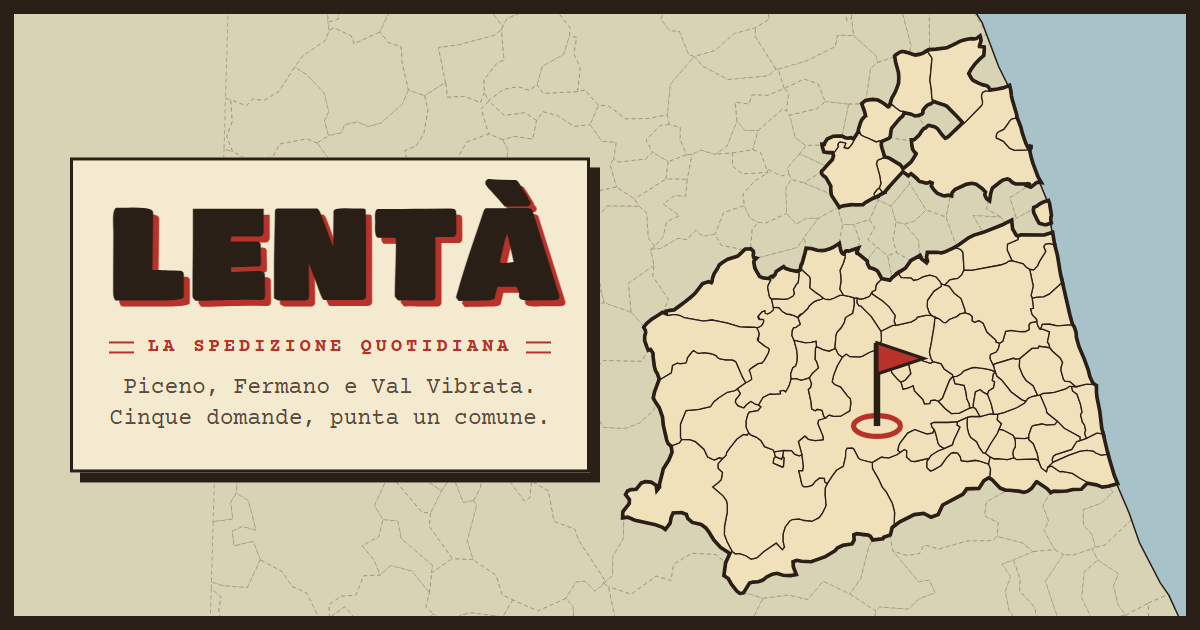
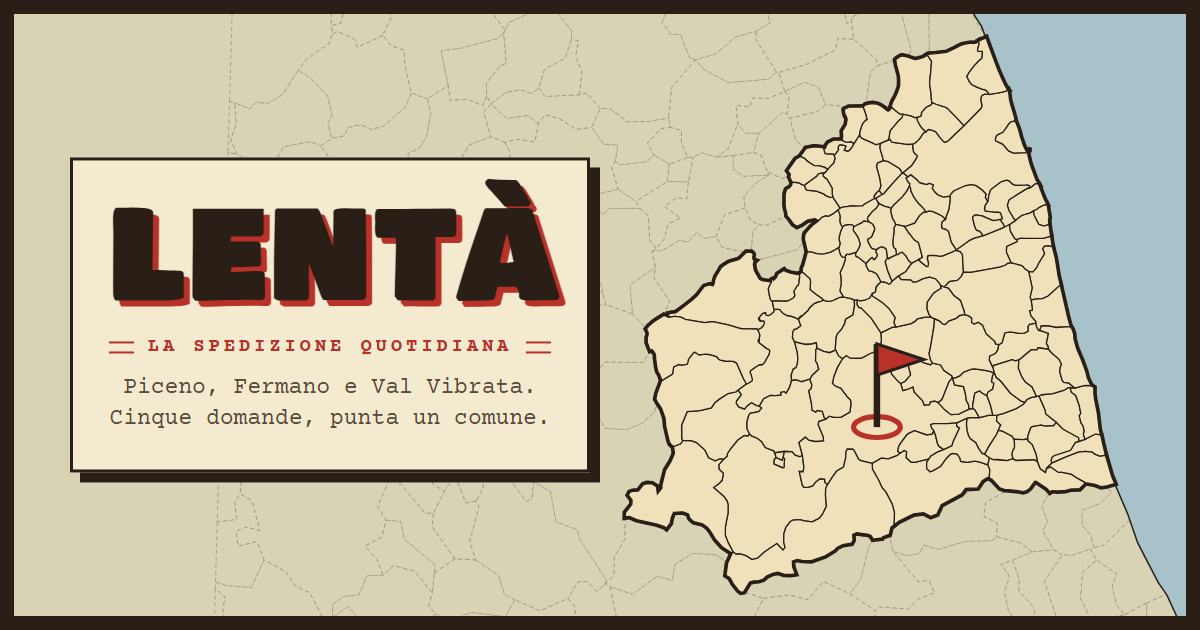
Mappa: tutti i 40 comuni della provincia di Fermo
- strumenti/aggiungi-comuni.mjs aggiunge i 26 comuni FM mancanti;
  dati/comuni-extra.js rigenerato (86 comuni: 33 AP, 40 FM, 13 TE).
  I 14 comuni FM già presenti restano identici.
- Testo "Come si gioca", anteprima.png e CLAUDE.md aggiornati.

diff --git a/dati/comuni-extra.js b/dati/comuni-extra.js
@@ -12,5 +12,31 @@ MAP.ap.push({"id":"109006","nome":"Fermo","d":"M814.4,480.3L813.3,480.8L811.9,47
 {"id":"109036","nome":"Santa Vittoria in Matenano","d":"M720.5,574.8L720,573.6L720.3,570.4L720.7,568.7L720.8,568.3L720.9,568.1L721,568L721.2,567.7L721.5,567.5L721.8,567.3L725.2,554.8L725.8,552.6L726.8,548.4L731.9,548.7L739.5,551L746.2,551.4L749.1,551.1L756.2,549.1L760,547.3L761.5,546.5L766.8,543.1L767.1,544.7L767.9,548.5L768.6,551L769.8,553.7L771.3,555.1L773.2,555.8L775.1,555.6L775.3,558.1L772.7,566.2L768.6,575.4L769.5,580.3L769.9,589.6L768.8,595.7L768.3,598.8L771.3,603.7L772.6,606.3L768.2,606.8L761.9,609.7L761.8,609.8L761.7,609.9L761.6,609.9L760.7,610.3L759,611L757.5,611.4L754.8,612L750.6,611.9L750.2,611.7L747.2,610.3L743.6,607.2L738.4,603.6L731.9,598.6L730.2,597.1L730.7,588.6L730.8,588.4L730.8,588L730.6,585.4L730,583.2L721.4,575.4L720.5,574.8Z","bb":[720,543.1,775.3,612],"pin":[749.2,577]},
 {"id":"109039","nome":"Smerillo","d":"M681,587.3L680.6,585.9L680.7,585.4L680.9,585L682.2,584L682.6,583.9L682.9,584.1L683.4,584.8L683.6,585.2L687.4,581.3L688.9,577.3L696.9,572.2L697.6,572.9L698,573.2L698.4,573.6L698.9,573.9L699.3,574.1L699.7,574.3L700.4,574.5L704.3,575.7L704.9,575.9L706.7,576.3L714,577.7L716.8,577L716.9,580.8L716,588.3L715.4,591.2L715.2,591.5L715,591.6L714.3,592L713.7,592.3L709.6,599.5L710.6,602.9L710.9,604.6L709.5,607L709.1,607.5L708.8,607.8L703.2,611L702.9,611.2L698.6,611.9L694.9,611.8L687.2,611.3L681.9,611.6L681.6,611.5L681.4,611.4L680.5,610.4L680,609.8L679.3,608.7L679.2,608.4L678.6,605.6L678.4,604.9L677,597.1L677,595.7L678.1,592.7L681,587.3Z","bb":[677,572.2,716.9,611.9],"pin":[696.7,593.4]},
 {"id":"109014","nome":"Montefalcone Appennino","d":"M716.8,577L720.5,574.8L721.4,575.4L730,583.2L730.6,585.4L730.8,588L730.8,588.4L730.7,588.6L730.2,597.1L731.9,598.6L738.4,603.6L743.6,607.2L747.2,610.3L744.9,611.8L739.6,613L735.4,614.9L730.5,619.3L729.3,620.5L727.7,623.4L720.5,630.2L720.3,630.1L720.2,630.1L720,630.1L719.7,630.2L719.3,630.3L719,630.5L718.3,630.9L718,631.1L717.4,631.6L717.1,631.9L716,633.3L715.9,633.4L715.8,633.7L715.4,635L714.2,634.2L709.7,632.1L708.7,631.8L708.4,631.7L706.6,631.2L705.8,631L700.6,630.1L695.6,627.3L691.6,622.6L688.3,622L685.1,622.4L683.9,621.4L681.9,611.6L687.2,611.3L694.9,611.8L698.6,611.9L702.9,611.2L703.2,611L708.8,607.8L709.1,607.5L709.5,607L710.9,604.6L710.6,602.9L709.6,599.5L713.7,592.3L714.3,592L715,591.6L715.2,591.5L715.4,591.2L716,588.3L716.9,580.8L716.8,577Z","bb":[681.9,574.8,747.2,635],"pin":[720.1,611.9]},
-{"id":"109015","nome":"Montefortino","d":"M521.3,647.4L524,643.8L530.4,638.3L536,634.7L543.5,630L549.9,632.5L555.6,631.4L556.3,631.3L557.2,631.3L560.7,631.5L561.3,631.5L561.7,631.6L564.5,632.1L565.1,632.3L565.8,632.6L566.4,632.8L567.4,633.2L568,633.5L569.9,634.5L570.7,634.9L595.3,639.3L606.2,638L615,639.8L625.7,642L641.4,646.7L645.8,647.1L652.9,647.2L661.4,647.3L662.9,647.8L665,651.9L665.9,654.9L665.5,657.6L664.9,660.5L664.6,660.7L664.4,661L664.2,661.3L664,661.6L663.9,661.8L663.8,662.1L663.8,662.5L663.8,662.8L664,663.5L664.9,664.8L665,665L665.8,665.6L674.2,672L677.7,673.6L678.6,675.1L678.3,677.4L677.9,679.4L677.8,679.7L672.2,689.6L669.3,692.9L667.9,692.8L665.9,693L665,693.3L664.6,693.4L658.3,697.5L654.6,700.2L653.4,702.2L654.2,703.8L655,706.1L655.8,708.9L656.5,712.4L656.5,712.7L656.5,712.8L656.4,713L655.4,714.2L651.2,716.7L649.3,717.3L648.2,716.4L645.2,710.9L642.7,705.3L639.3,697.5L636.7,691.3L636.6,691.1L636.3,690.9L634.7,689.8L633.3,689.1L631.7,688.6L627,688.5L624,688.4L623.8,688.5L623.6,688.6L623.4,688.6L621.3,688.2L615.6,687.1L613,685.7L612.2,683.8L609.6,682.2L603.7,680.5L598.6,679.6L596.1,679.5L591.9,680L588.5,680.2L587.4,679.8L586.9,679.6L583.9,677.4L583.6,677.1L582.9,677L582.6,677L582.2,677.1L581.9,677.2L581.6,677.5L581.3,677.8L577.9,682.1L576.1,684.4L575,685.9L574.6,687.1L574.6,687.5L574.5,688L574.4,688.7L574.1,689.9L574,690.4L573.5,691.6L573.3,692L573.2,692.2L572.8,692.3L572.4,692.5L570.4,692.9L566.5,693.3L564.9,693.2L563.5,693L562.5,692.6L556,695.8L554.5,705L545,710.6L540.8,713.2L540.7,712.5L538.3,705.8L537,703.5L536.3,702.4L535.7,701.4L534.5,696.5L532.8,683.4L532.8,683.2L532.9,682.6L532.9,682.2L532.9,681.9L532.9,681.5L532.7,680.3L532.6,679.8L532.4,679.3L532.3,678.8L532,678.3L531.8,677.9L531.4,677.4L530.9,676.7L530.6,676.3L529.3,674.5L528.6,673.6L526.1,674.5L524.8,671.2L522.2,664.1L522.3,658.3L522.5,657.7L523.2,655.5L523.4,654.6L523.5,654.1L523.5,653.4L523.4,652.9L523.4,652.3L523.3,651.9L523.2,651.4L523.1,651L522.9,650.5L522.8,650.1L522.6,649.6L522.4,649.3L521.9,648.5L521.3,647.4Z","bb":[521.3,630,678.6,717.3],"pin":[561.7,659.9]});
-MAP.apbb=[494.3,279.8,1119.2,983.5];
+{"id":"109015","nome":"Montefortino","d":"M521.3,647.4L524,643.8L530.4,638.3L536,634.7L543.5,630L549.9,632.5L555.6,631.4L556.3,631.3L557.2,631.3L560.7,631.5L561.3,631.5L561.7,631.6L564.5,632.1L565.1,632.3L565.8,632.6L566.4,632.8L567.4,633.2L568,633.5L569.9,634.5L570.7,634.9L595.3,639.3L606.2,638L615,639.8L625.7,642L641.4,646.7L645.8,647.1L652.9,647.2L661.4,647.3L662.9,647.8L665,651.9L665.9,654.9L665.5,657.6L664.9,660.5L664.6,660.7L664.4,661L664.2,661.3L664,661.6L663.9,661.8L663.8,662.1L663.8,662.5L663.8,662.8L664,663.5L664.9,664.8L665,665L665.8,665.6L674.2,672L677.7,673.6L678.6,675.1L678.3,677.4L677.9,679.4L677.8,679.7L672.2,689.6L669.3,692.9L667.9,692.8L665.9,693L665,693.3L664.6,693.4L658.3,697.5L654.6,700.2L653.4,702.2L654.2,703.8L655,706.1L655.8,708.9L656.5,712.4L656.5,712.7L656.5,712.8L656.4,713L655.4,714.2L651.2,716.7L649.3,717.3L648.2,716.4L645.2,710.9L642.7,705.3L639.3,697.5L636.7,691.3L636.6,691.1L636.3,690.9L634.7,689.8L633.3,689.1L631.7,688.6L627,688.5L624,688.4L623.8,688.5L623.6,688.6L623.4,688.6L621.3,688.2L615.6,687.1L613,685.7L612.2,683.8L609.6,682.2L603.7,680.5L598.6,679.6L596.1,679.5L591.9,680L588.5,680.2L587.4,679.8L586.9,679.6L583.9,677.4L583.6,677.1L582.9,677L582.6,677L582.2,677.1L581.9,677.2L581.6,677.5L581.3,677.8L577.9,682.1L576.1,684.4L575,685.9L574.6,687.1L574.6,687.5L574.5,688L574.4,688.7L574.1,689.9L574,690.4L573.5,691.6L573.3,692L573.2,692.2L572.8,692.3L572.4,692.5L570.4,692.9L566.5,693.3L564.9,693.2L563.5,693L562.5,692.6L556,695.8L554.5,705L545,710.6L540.8,713.2L540.7,712.5L538.3,705.8L537,703.5L536.3,702.4L535.7,701.4L534.5,696.5L532.8,683.4L532.8,683.2L532.9,682.6L532.9,682.2L532.9,681.9L532.9,681.5L532.7,680.3L532.6,679.8L532.4,679.3L532.3,678.8L532,678.3L531.8,677.9L531.4,677.4L530.9,676.7L530.6,676.3L529.3,674.5L528.6,673.6L526.1,674.5L524.8,671.2L522.2,664.1L522.3,658.3L522.5,657.7L523.2,655.5L523.4,654.6L523.5,654.1L523.5,653.4L523.4,652.9L523.4,652.3L523.3,651.9L523.2,651.4L523.1,651L522.9,650.5L522.8,650.1L522.6,649.6L522.4,649.3L521.9,648.5L521.3,647.4Z","bb":[521.3,630,678.6,717.3],"pin":[561.7,659.9]},
+{"id":"109001","nome":"Altidona","d":"M1021.7,462L1024.6,469.9L1028.6,480.1L1031.6,486.5L1032.4,488.1L1028.1,489.3L1025.9,490.3L1024.1,491.3L1022,492.5L1020.8,493.7L1019.1,494.7L1017.1,495.7L1015.9,496.2L1011.8,499L1005.1,501L1005,501L1004.1,501.1L1003.9,501.2L1003.5,501.4L1001.6,502.1L1001.3,502.2L1000.6,502.5L1000.2,502.7L1000,502.8L999.8,503L997.7,504.5L996,505.9L994.5,507.2L992.5,508.9L990,505.7L984,495.7L982.1,489.3L984.2,482.7L984.4,482.4L985.7,481.2L986,480.9L989.4,479L1004.8,469.3L1009,467.1L1010.6,467.7L1013,465.9L1018.1,461.8L1021.7,462Z","bb":[982.1,461.8,1032.4,508.9],"pin":[1006.4,485.1]},
+{"id":"109003","nome":"Belmonte Piceno","d":"M817.3,486L817.4,486.3L817.5,486.5L817.5,486.7L817.6,487L817.4,489.6L817.3,489.8L815.5,492.1L814.9,493L814.6,493.3L814.5,493.3L814.3,493.5L813.1,494.7L812.9,494.8L812.8,494.9L812.6,495L810,497.2L804.5,503.9L804.2,504.2L804.1,504.4L804.1,504.5L804,504.8L803.6,505.9L803.6,506.2L803.6,506.5L803.6,506.7L803.7,507L803.8,507.3L803.9,507.6L804.4,508.6L804.6,508.9L806.3,510.7L801.9,509.9L799.1,509.6L798.8,509.6L798.1,510L797.9,510.1L797.8,510.2L797.7,510.3L797.1,510.8L796.9,511.1L796.9,511.2L796.7,511.5L787.3,516.1L786.2,516.7L784.6,515L783.8,514.4L783.5,514.2L783.1,513.9L782.8,513.9L782.5,513.9L781.5,513.9L778.9,514.2L774.5,515L774,515.2L773.6,515.3L773.4,515.5L771.9,517L771.1,516.5L770.8,516.3L770.5,515.8L769.8,514.4L768.3,510.8L768.2,506.5L768.7,505.3L768.7,505L768.1,501.6L768.1,501.1L767.9,500.4L767.8,500L767.6,499.5L767.5,499.2L766.6,497.3L765.6,495.5L768.4,493L768.7,492.8L769.3,492.6L769.7,492.4L770.5,492.2L770.9,492.1L772,491.8L774.1,491.3L774.4,491.3L783.7,490.1L786.3,490.2L787.2,490.2L787.7,490.3L797.3,490.1L799,488.4L800.6,487.3L810.7,481.6L813.3,480.8L814.4,480.3L817.3,486Z","bb":[765.6,480.3,817.6,517],"pin":[790.3,501.1]},
+{"id":"109004","nome":"Campofilone","d":"M1037.4,528.7L1032.5,530.3L1028,531.6L1007.3,531.5L998.3,531.4L994.5,533.2L992.6,532.3L991.5,531.6L986.3,522.7L985.9,521.6L985.8,521.1L985.4,517.9L985.3,517.2L985.3,516.5L985.3,516.4L985.3,514.8L985.3,513.5L992.5,508.9L994.5,507.2L996,505.9L997.7,504.5L999.8,503L1000,502.8L1000.2,502.7L1000.6,502.5L1001.3,502.2L1001.6,502.1L1003.5,501.4L1003.9,501.2L1004.1,501.1L1005,501L1005.1,501L1011.8,499L1015.9,496.2L1015.7,497.5L1015.7,498.7L1015.8,499.9L1016,501.3L1020.2,509.9L1022.5,513.9L1026.2,514.9L1028.8,515.6L1029.4,515.6L1029.7,515.5L1030,515.5L1030.1,515.4L1031,515.2L1035.2,513.8L1037.4,528.7Z","bb":[985.3,496.2,1037.4,533.2],"pin":[1009.5,518.1]},
+{"id":"109005","nome":"Falerone","d":"M741.2,509L737.1,506.6L736.2,506.5L735.1,506.6L734.6,506.6L734.3,506.6L734.1,506.7L733.9,506.7L726.6,508.4L726.3,508.5L725.9,508.7L725.7,508.9L725.4,509.2L718.9,513.7L713.4,516.2L708.7,512.9L703.4,505.6L700.8,502.8L700.6,500.2L700,496.9L699.4,495.2L698.9,493.2L698.3,488.3L698.4,475L700.2,469.1L701.4,468.3L704.1,467L706.1,464.4L706.3,464.1L706.6,463.6L706.7,463.4L706.8,463.2L707.4,461.2L707.4,460.9L707.4,460.7L707.4,459.9L707.3,459.6L710.1,459.9L716.4,460.7L717.6,461.6L718.1,462L718.4,462.2L718.5,462.2L718.8,462.3L719.7,462.8L720.2,463L721.9,463.7L722.2,463.8L722.8,463.9L723.1,463.9L724.4,467.7L726,470L738.4,471.2L747.5,474.8L749.5,476.3L750,476.6L753.3,478.2L754.3,478.5L755.4,478.8L756.3,479.1L756.4,479.1L756.6,479.1L756.8,479.2L756.9,479.2L757.1,479.2L759.2,479L768.4,493L765.6,495.5L760.7,499.4L760.5,499.6L760.3,499.8L759.9,500L758.4,500.9L755.6,502.5L754.4,503.2L754.1,503.3L753.9,503.4L753.6,503.5L753.1,503.5L752.7,503.5L752.2,503.3L751.2,503.1L751,503L750.8,503L750.5,503L750.2,503L749.6,503.1L749.3,503.2L748.4,503.5L747,504L745.6,504.6L745.4,504.7L745.2,504.9L744.9,505.1L744.6,505.4L744.5,505.5L744.3,505.6L743.7,506.3L741.2,509Z","bb":[698.3,459.6,768.4,516.2],"pin":[727.2,488.5]},
+{"id":"109007","nome":"Francavilla d'Ete","d":"M779.8,364L797.9,363.8L798.9,366.4L801.3,373L802.9,379.9L801.2,380.6L799.9,381.9L797.6,384.6L796.1,387.9L793.6,396L793.4,399.2L786.3,410.5L785.5,409.9L782.3,408L778.7,408.7L775,408.2L771,406.1L771.9,401.3L771.4,394.8L776.4,386.5L777.6,379.4L776.2,375.1L775.6,374.3L775.2,373.6L775.1,373.6L775,373.2L774.9,372.9L774.5,371.7L774,368.5L773.8,367.7L773.9,367L778.4,364.7L779.8,364Z","bb":[771,363.8,802.9,410.5],"pin":[788.4,379.1]},
+{"id":"109008","nome":"Grottazzolina","d":"M817.3,486L814.4,480.3L822.5,475.6L823.4,475.1L824.4,474.3L824.5,474.3L824.5,474.2L824.9,473.9L829.7,468.2L838.1,458.8L848,448.2L848.6,447.9L855.2,453.1L853.7,453.9L852.9,454.7L855.7,459.9L857.7,461.7L857.1,464.9L855.7,467.8L853.6,471.5L848.1,478.6L836.6,489.6L833.6,493.5L832.2,492.7L830.9,492.1L825.7,490.6L819.5,487.8L817.3,486Z","bb":[814.4,447.9,857.7,493.5],"pin":[838.2,472.5]},
+{"id":"109009","nome":"Lapedona","d":"M985.3,513.5L978.4,517L976.8,513L973.9,509.4L973,507.4L974.1,507.1L975.7,506.3L974.3,501.7L973.2,499L969.9,498.2L966.9,498.3L954.4,496.9L954.2,496.9L953.9,496.7L953.1,494.9L953.1,494.6L953.1,494.1L953.1,493.7L953.1,493.2L953.3,491.7L953.3,491.5L953.3,491.4L953.3,491.3L953.7,489.3L957.4,484.3L958.5,476.9L960.8,469.6L971,461.7L973.1,460.2L975.3,459L981.3,457.3L984.9,458.7L985.9,459.9L987,461L988.6,462.3L992,463.9L993.4,463.9L1005.7,463.6L1006.7,463.5L1009.5,464L1009.8,464.1L1010.4,464.6L1010.6,464.8L1010.6,465L1010.5,465.4L1010.3,466L1010,466.2L1009,467.1L1004.8,469.3L989.4,479L986,480.9L985.7,481.2L984.4,482.4L984.2,482.7L982.1,489.3L984,495.7L990,505.7L992.5,508.9L985.3,513.5Z","bb":[953.1,457.3,1010.6,517],"pin":[972.4,481]},
+{"id":"109011","nome":"Massa Fermana","d":"M717.5,427.2L725.3,416.5L728.4,416L734,415L738.3,414.8L747.4,416.1L747.5,417.1L749.3,423.3L753.9,424.1L759.9,424L761.1,426L762,429.6L760.4,435.1L754.2,441.6L752.7,443.4L749,441L742.5,439.1L736.4,438.6L735,438.3L730.6,435.6L726.4,432.6L723,429.4L719.1,427.6L717.5,427.2Z","bb":[717.5,414.8,762,443.4],"pin":[740.4,428.5]},
+{"id":"109012","nome":"Monsampietro Morico","d":"M786.2,516.7L787.3,516.1L796.7,511.5L796.9,511.2L796.9,511.1L797.1,510.8L797.7,510.3L797.8,510.2L797.9,510.1L798.1,510L798.8,509.6L799.1,509.6L801.9,509.9L806.3,510.7L808.6,512.3L810.4,513.5L812.5,517.6L812.7,520.6L809,529.6L804.9,532.3L804.7,532.4L804.5,532.4L804.3,532.6L804.2,532.7L804.1,532.9L804.1,533.2L804,534.7L804,535.1L804.3,535.7L806.8,540.7L807.9,542.5L808.9,544L809.1,544.2L809.4,544.4L814.4,545.9L815.8,545.4L814.6,547.6L814.4,548.7L814.4,548.8L814.4,549.1L814.5,549.4L814.9,550.2L816.2,552.1L816.1,553.9L813.7,557.4L813.6,557.6L812.3,558.8L812.2,558.9L812,558.9L811.8,558.7L810.9,558L810.8,557.8L810.6,557.5L810.1,556.6L810,556.2L808.1,557L803.3,561.8L802.9,562.4L801.9,563.9L800.9,563L791.2,555.1L790.7,555.1L789.9,555.1L789.1,554.7L788.4,552.6L788.3,552.2L788.3,551.9L788.3,551.7L788.4,551.4L788.4,551.3L789.4,549L791.6,545.7L794.2,539.2L792.6,533.3L790.7,529L785.3,521.3L785.4,520.2L785.5,518.9L786,517L786.1,516.9L786.2,516.7Z","bb":[785.3,509.6,816.2,563.9],"pin":[799.2,524.1]},
+{"id":"109013","nome":"Montappone","d":"M704.1,452.8L705.1,449.8L701.8,445.2L712,430.6L717.5,427.2L719.1,427.6L723,429.4L726.4,432.6L730.6,435.6L735,438.3L736.4,438.6L742.5,439.1L749,441L752.7,443.4L748.9,447.8L747,447.9L742.1,448.8L741.6,448.9L741.3,449L741.1,449.1L741,449.3L740.4,449.9L740.3,450L739.6,451.3L739.5,451.6L729.1,459.3L725,462.3L723.1,463.9L722.8,463.9L722.2,463.8L721.9,463.7L720.2,463L719.7,462.8L718.8,462.3L718.5,462.2L718.4,462.2L718.1,462L717.6,461.6L716.4,460.7L710.1,459.9L707.3,459.6L704.1,452.8Z","bb":[701.8,427.2,752.7,463.9],"pin":[722.6,446.4]},
+{"id":"109016","nome":"Monte Giberto","d":"M833.6,493.5L836.6,489.6L848.1,478.6L853.6,471.5L855.7,467.8L857.1,464.9L858,465.8L858.8,468.3L859,471.2L863.1,479.3L868.1,486.1L875.7,493.8L878.2,498.2L874.9,498.5L870.1,502.5L863.9,512.2L853.4,515.9L850.8,516.2L839.6,513.8L838.5,511.2L837,508.6L835.7,506.8L833.1,497.3L833.6,493.5Z","bb":[833.1,464.9,878.2,516.2],"pin":[853.7,495.5]},
+{"id":"109021","nome":"Monte Rinaldo","d":"M835.1,586L832.7,589.2L831.3,590L830.5,590.2L830,589.7L829.8,589.4L829.5,588.9L824.7,587.2L820.5,586.8L819.8,585.1L816.6,579.2L815.8,577.8L815.2,577L815,576.8L814,576L813.5,575.8L809.9,574.1L805.2,572.9L801.9,566.7L801.9,563.9L802.9,562.4L803.3,561.8L808.1,557L810,556.2L810.1,556.6L810.6,557.5L810.8,557.8L810.9,558L811.8,558.7L812,558.9L812.2,558.9L812.3,558.8L813.6,557.6L813.7,557.4L816.1,553.9L816.2,552.1L814.9,550.2L814.5,549.4L814.4,549.1L814.4,548.8L814.4,548.7L814.6,547.6L815.8,545.4L817.2,544.2L817.4,544.1L817.8,543.8L818.5,543.5L819,543.3L819.8,542.9L821.1,542.5L821.5,542.3L821.7,542.3L822,542.3L825.4,543.8L826.4,544.4L826.7,544.5L827.3,545.2L827.5,545.8L827.6,546.1L829.1,555.5L829.2,556.3L826.2,561.3L829.1,572L833.2,582.4L835.1,586Z","bb":[801.9,542.3,835.1,590.2],"pin":[818.8,566.8]},
+{"id":"109024","nome":"Monte Urano","d":"M926.7,387.8L925.4,388.9L924.8,389.5L923.7,390.5L916.2,397.7L913.3,400.5L907.6,405.9L906.9,406.5L906.6,406.8L905.1,407.8L904.9,407.9L904.5,408L902.7,408.7L902.6,408.7L902.2,408.9L901.9,408.9L901.6,408.6L901.5,408.5L898.8,405.8L897.6,404.4L895.9,402.5L895.7,402.2L895.6,402L893.4,399L891.5,396.3L888.5,394.2L881.6,392.5L881.2,392.6L881,392.7L880.8,392.9L880.6,393.1L878,395.6L873.4,391.2L871.8,389.2L871.1,388.3L867.9,382.6L866.9,380.2L866.7,377.1L866.9,377.1L867.1,377.1L867.4,377.1L867.8,377L871.1,375.7L871.5,375.6L871.9,375.3L872,375.1L872.2,374.9L872.4,374.5L872.5,374.2L872.5,373.8L872.5,373.2L872.5,372.6L872.5,372.2L872.5,372.1L872.5,371.7L872.5,371.4L872.7,371L872.9,370.7L873,370.6L873.2,370.2L875.3,367.7L878.3,364.5L881.9,362.4L882.2,362.5L882.4,362.4L882.8,362.3L882.9,362.3L883.1,362.3L883.3,362.2L883.7,362L884.1,361.7L885.8,359.9L886,359.4L886.1,358.9L885.9,358.2L891.6,360.6L898.3,362.7L900.1,363.2L900.7,363.3L902.1,363.8L905.3,365.5L919.2,379.6L923.8,384.7L926.7,387.8Z","bb":[866.7,358.2,926.7,408.9],"pin":[896.6,381.7]},
+{"id":"109025","nome":"Monte Vidon Combatte","d":"M869.6,558.1L859.7,563.4L858.6,562.6L858.3,562.4L856.1,560.2L855,558.6L852.7,554.2L847.7,549.2L844,550.8L843,552.1L840.5,552.6L840.3,549.6L839.3,544.7L837.8,544.2L836.5,541.8L836.5,541.7L836.4,541.5L836.4,541.4L836.3,541.1L836.2,540.7L835.9,536.3L836,532.9L836.4,532L837.4,522.8L837.2,519.4L837.2,519L837.3,518.7L837.3,518.5L837.3,518.3L837.4,518.1L837.5,517.9L838.7,515.4L838.9,515L839.4,514.1L839.6,513.8L850.8,516.2L852,518.3L856.3,524.4L857.7,526.2L863.3,533.5L868.7,537.1L870.4,543.1L873.7,556L869.6,558.1Z","bb":[835.9,513.8,873.7,563.4],"pin":[852.8,538.8]},
+{"id":"109026","nome":"Monte Vidon Corrado","d":"M759.2,479L757.1,479.2L756.9,479.2L756.8,479.2L756.6,479.1L756.4,479.1L756.3,479.1L755.4,478.8L754.3,478.5L753.3,478.2L750,476.6L749.5,476.3L747.5,474.8L738.4,471.2L726,470L724.4,467.7L723.1,463.9L725,462.3L729.1,459.3L739.5,451.6L739.6,451.3L740.3,450L740.4,449.9L741,449.3L741.1,449.1L741.3,449L741.6,448.9L742.1,448.8L747,447.9L748.9,447.8L747.4,449.1L747.1,449.3L746.9,449.6L746.8,449.7L746.7,450.1L746.7,450.6L746.7,451L746.8,451.3L746.9,451.7L747,452L749.2,454.4L751.6,455.7L754.5,460.6L758.7,468.1L758.5,468.4L758.5,468.6L758.4,468.8L758.4,469.3L758.5,474.2L759.2,479Z","bb":[723.1,447.8,759.2,479.2],"pin":[743.4,463.5]},
+{"id":"109019","nome":"Monteleone di Fermo","d":"M771.9,517L773.4,515.5L773.6,515.3L774,515.2L774.5,515L778.9,514.2L781.5,513.9L782.5,513.9L782.8,513.9L783.1,513.9L783.5,514.2L783.8,514.4L784.6,515L786.2,516.7L786.1,516.9L786,517L785.5,518.9L785.4,520.2L785.3,521.3L790.7,529L792.6,533.3L794.2,539.2L791.6,545.7L789.4,549L788.2,549.4L780,552.1L779.9,552L779.7,552L777.9,551.8L777.6,551.8L777.3,551.8L777.1,551.8L776.8,552L776.8,552.1L776.6,552.2L776.4,552.5L776.3,552.5L776.1,552.8L776.1,552.9L776,552.9L775.4,554L775.2,554.3L775.1,554.7L775,555.3L775.1,555.4L775.1,555.6L773.2,555.8L771.3,555.1L769.8,553.7L768.6,551L767.9,548.5L767.1,544.7L766.8,543.1L767.5,542.7L768.2,539.3L768.5,537.3L767.7,534.9L767.5,534.7L767.4,534.5L767.4,534.4L767.3,533.5L767.2,532.8L767.3,530.5L767.4,529.8L769.4,522L771.9,517Z","bb":[766.8,513.9,794.2,555.8],"pin":[779.4,535]},
+{"id":"109022","nome":"Monterubbiano","d":"M951,528.1L942.2,530.6L940.9,531L939.2,531.6L938.9,531.7L938.4,531.9L937.7,532.3L934.3,533.9L933,534.6L932.9,534.7L932.7,534.9L923.9,541.2L916.8,546.1L910.8,537L910.2,535.5L909.4,532.5L908.6,529.1L907.6,525L906.9,522.9L906,521.8L904.7,520.9L904.5,520.7L903,520L902.5,519.8L902.2,519.7L901.8,519.7L901.4,519.6L900.6,519.4L900.2,519.3L898.7,518.7L898.6,518.4L898.1,514.3L898.1,513.7L898.2,513.1L898.2,512.7L898.3,512.4L898.8,510.9L899.1,510.1L899.2,509.9L900,509.2L903.2,507.2L904.3,502.7L907.2,495.3L908.1,490.3L908.8,484.5L909.1,481.3L909.1,478.7L909.3,477.1L909.3,476.8L909.7,475.5L913.7,471.1L928.3,464.4L935.9,462.9L942.1,464.3L950.3,470.1L955,475.2L954,478.9L955.6,482.5L955.7,482.7L956.2,483.2L956.7,483.7L957.1,484.1L957.4,484.3L953.7,489.3L953.3,491.3L953.3,491.4L953.3,491.5L953.3,491.7L953.1,493.2L953.1,493.7L953.1,494.1L953.1,494.6L953.1,494.9L953.9,496.7L954.2,496.9L954.4,496.9L966.9,498.3L969.9,498.2L973.2,499L974.3,501.7L975.7,506.3L974.1,507.1L973,507.4L969.2,508.4L963.7,508.8L959.5,507.1L949.9,502.9L941.2,501.6L938.4,503.6L938.2,503.8L938,504.1L937.9,504.4L937.8,505.4L940.3,515.5L942,519.8L943.5,521.6L944.8,521.3L946.8,522.5L948.4,524L950.1,526.5L951,528.1Z","bb":[898.1,462.9,975.7,546.1],"pin":[926.2,490.6]},
+{"id":"109027","nome":"Montottone","d":"M806.3,510.7L804.6,508.9L804.4,508.6L803.9,507.6L803.8,507.3L803.7,507L803.6,506.7L803.6,506.5L803.6,506.2L803.6,505.9L804,504.8L804.1,504.5L804.1,504.4L804.2,504.2L804.5,503.9L810,497.2L812.6,495L812.8,494.9L812.9,494.8L813.1,494.7L814.3,493.5L814.5,493.3L814.6,493.3L814.9,493L815.5,492.1L817.3,489.8L817.4,489.6L817.6,487L817.5,486.7L817.5,486.5L817.4,486.3L817.3,486L819.5,487.8L825.7,490.6L830.9,492.1L832.2,492.7L833.6,493.5L833.1,497.3L835.7,506.8L837,508.6L838.5,511.2L839.6,513.8L839.4,514.1L838.9,515L838.7,515.4L837.5,517.9L837.4,518.1L837.3,518.3L837.3,518.5L837.3,518.7L837.2,519L837.2,519.4L837.4,522.8L836.4,532L836,532.9L835.9,536.3L836.2,540.7L836.3,541.1L836.4,541.4L836.4,541.5L836.5,541.7L836.5,541.8L837.8,544.2L839.3,544.7L840.3,549.6L840.5,552.6L839,553.2L832.8,556.2L830.6,557.7L829.2,556.3L829.1,555.5L827.6,546.1L827.5,545.8L827.3,545.2L826.7,544.5L826.4,544.4L825.4,543.8L822,542.3L821.7,542.3L821.5,542.3L821.1,542.5L819.8,542.9L819,543.3L818.5,543.5L817.8,543.8L817.4,544.1L817.2,544.2L815.8,545.4L814.4,545.9L809.4,544.4L809.1,544.2L808.9,544L807.9,542.5L806.8,540.7L804.3,535.7L804,535.1L804,534.7L804.1,533.2L804.1,532.9L804.2,532.7L804.3,532.6L804.5,532.4L804.7,532.4L804.9,532.3L809,529.6L812.7,520.6L812.5,517.6L810.4,513.5L808.6,512.3L806.3,510.7Z","bb":[803.6,486,840.5,557.7],"pin":[824.8,520.9]},
+{"id":"109028","nome":"Moresco","d":"M978.4,517L974.7,518.8L958.2,525.4L953.3,527.3L952.2,527.7L952.1,527.7L951.9,527.8L951.7,527.8L951.2,528L951,528.1L950.1,526.5L948.4,524L946.8,522.5L944.8,521.3L943.5,521.6L942,519.8L940.3,515.5L937.8,505.4L937.9,504.4L938,504.1L938.2,503.8L938.4,503.6L941.2,501.6L949.9,502.9L959.5,507.1L963.7,508.8L969.2,508.4L973,507.4L973.9,509.4L976.8,513L978.4,517Z","bb":[937.8,501.6,978.4,528.1],"pin":[955.5,515.1]},
+{"id":"109029","nome":"Ortezzano","d":"M859.7,563.4L859.3,564L854.6,570.6L854.4,571L854.2,571.3L853.6,572.1L853.2,572.7L853.1,572.8L852.7,573.4L852.3,573.8L851.8,574.3L851.3,574.7L845.5,578.2L844.3,578.9L843,579.5L835.1,586L833.2,582.4L829.1,572L826.2,561.3L829.2,556.3L830.6,557.7L832.8,556.2L839,553.2L840.5,552.6L843,552.1L844,550.8L847.7,549.2L852.7,554.2L855,558.6L856.1,560.2L858.3,562.4L858.6,562.6L859.7,563.4Z","bb":[826.2,549.2,859.7,586],"pin":[841.8,566.1]},
+{"id":"109031","nome":"Petritoli","d":"M916.2,546.5L915.7,546.9L914.4,547.8L910.6,549.5L901.9,553.1L900.8,553.5L898.7,554.1L897,554.4L896,554.3L893.3,553.9L893,553.7L892.6,553.6L892.2,553.5L891.8,553.5L887.8,553.4L881.9,553.4L881.5,553.5L880.8,553.6L880.2,554.6L880.2,554.8L880.2,554.9L880.2,555L880.1,555.4L880,558L880,558.3L880.4,559.4L880.4,559.5L880.5,559.8L880.7,560.4L881.5,563.5L880.8,567.7L879,567.5L870.9,561.2L869.6,558.1L873.7,556L870.4,543.1L868.7,537.1L863.3,533.5L857.7,526.2L856.3,524.4L852,518.3L850.8,516.2L853.4,515.9L863.9,512.2L870.1,502.5L874.9,498.5L878.2,498.2L881.6,496.5L886.5,497L893.6,500.2L899.2,503.3L902.6,506.3L903.2,507.2L900,509.2L899.2,509.9L899.1,510.1L898.8,510.9L898.3,512.4L898.2,512.7L898.2,513.1L898.1,513.7L898.1,514.3L898.6,518.4L898.7,518.7L900.2,519.3L900.6,519.4L901.4,519.6L901.8,519.7L902.2,519.7L902.5,519.8L903,520L904.5,520.7L904.7,520.9L906,521.8L906.9,522.9L907.6,525L908.6,529.1L909.4,532.5L910.2,535.5L910.8,537L916.8,546.1L916.2,546.5Z","bb":[850.8,496.5,916.8,567.7],"pin":[884.7,528.7]},
+{"id":"109032","nome":"Ponzano di Fermo","d":"M855.2,453.1L855.3,453L855.7,452.7L856.9,451.8L856.9,451.7L857.4,451.4L857.8,451.1L859,450.5L863.4,454.1L867.3,457.4L868.9,459.3L869.2,459.7L869.5,460.1L869.8,460.4L870.1,460.6L870.5,460.8L873.3,461.5L876.5,462.3L878.6,462.8L879.4,462.7L879.8,462.5L882.5,461.4L882.8,461.3L885.8,462.5L887.5,463.3L886.2,467.8L889.5,472.4L893,475.9L899.4,478.6L901.6,479L906.1,478L909.1,478.7L909.1,481.3L908.8,484.5L908.1,490.3L907.2,495.3L904.3,502.7L903.2,507.2L902.6,506.3L899.2,503.3L893.6,500.2L886.5,497L881.6,496.5L878.2,498.2L875.7,493.8L868.1,486.1L863.1,479.3L859,471.2L858.8,468.3L858,465.8L857.1,464.9L857.7,461.7L855.7,459.9L852.9,454.7L853.7,453.9L855.2,453.1Z","bb":[852.9,450.5,909.1,507.2],"pin":[881.2,480.3]},
+{"id":"109034","nome":"Porto Sant'Elpidio","d":"M945.6,279.8L954.9,275.4L957.7,283.2L966.6,307.4L968,310.9L970,316.2L971.3,319.2L975.3,328.2L976.8,331.5L979.1,336.3L979.3,336.6L980.9,339.5L981.6,340.8L982.9,342.2L981.8,342.7L980.7,343.2L979.2,343.8L976.8,344.5L975.7,344.8L969,346.2L958.9,347.7L956.2,343.7L955.2,342.6L955,342.5L954.5,342.2L954.2,342.1L953.5,341.9L949.8,341L943.2,338.4L936.5,335L933.7,331.4L930.4,325L933.9,318.8L939.2,311.8L944.9,305.7L949.8,301.5L950.3,294.6L950.2,292.7L944.5,292.3L944.1,290.2L946.2,283.3L945.8,280.5L945.6,279.8Z","bb":[930.4,275.4,982.9,347.7],"pin":[954.1,319.7]},
+{"id":"109035","nome":"Rapagnano","d":"M860.9,410.9L861.4,416.3L862.2,420.6L864,423.5L865.4,424.6L866.9,426.2L867,426.5L866.8,427.3L866.8,427.5L866.3,428.4L863.8,432.5L863,433.8L861.5,436.2L860.6,437.5L859.8,438.5L859.6,438.8L859.3,439L852.6,444.6L848.6,447.9L848,448.2L846.8,445.8L846.1,444.7L845.8,444.2L845.3,443.6L844,442L832,434.7L830.1,433.6L825,432.4L823.8,432.2L822.7,427.1L820.8,421L819.7,417.1L819.6,415.6L819.6,413.7L819.9,412.3L820,411.8L820.1,411.6L820.4,410.8L820.4,410.7L820.7,410.2L829.9,406.2L832.3,405.2L834.7,408.8L843,409.9L850.3,411L856.3,411.7L860.9,410.9Z","bb":[819.6,405.2,867,448.2],"pin":[843,424.6]},
+{"id":"109038","nome":"Servigliano","d":"M726.8,548.4L723.1,533.3L723.1,532.5L723.2,529.3L723.2,529L723.4,528.3L723.7,526.8L723.8,526.4L723.9,526.4L724,525.9L724.2,525.5L724.4,525.1L724.5,524.9L724.6,524.7L724.8,524.4L732.2,516.3L733.8,514.8L736.2,512.9L741.2,509L743.7,506.3L744.3,505.6L744.5,505.5L744.6,505.4L744.9,505.1L745.2,504.9L745.4,504.7L745.6,504.6L747,504L748.4,503.5L749.3,503.2L749.6,503.1L750.2,503L750.5,503L750.8,503L751,503L751.2,503.1L752.2,503.3L752.7,503.5L753.1,503.5L753.6,503.5L753.9,503.4L754.1,503.3L754.4,503.2L755.6,502.5L758.4,500.9L759.9,500L760.3,499.8L760.5,499.6L760.7,499.4L765.6,495.5L766.6,497.3L767.5,499.2L767.6,499.5L767.8,500L767.9,500.4L768.1,501.1L768.1,501.6L768.7,505L768.7,505.3L768.2,506.5L768.3,510.8L769.8,514.4L770.5,515.8L770.8,516.3L771.1,516.5L771.9,517L769.4,522L767.4,529.8L767.3,530.5L767.2,532.8L767.3,533.5L767.4,534.4L767.4,534.5L767.5,534.7L767.7,534.9L768.5,537.3L768.2,539.3L767.5,542.7L766.8,543.1L761.5,546.5L760,547.3L756.2,549.1L749.1,551.1L746.2,551.4L739.5,551L731.9,548.7L726.8,548.4Z","bb":[723.1,495.5,771.9,551.4],"pin":[748.5,527.2]},
+{"id":"109040","nome":"Torre San Patrizio","d":"M878,395.6L877.4,395.7L877.2,395.8L876.9,395.9L876.4,396.1L875.9,396.3L875.6,396.6L872.8,400L871.8,402.1L869.1,405.5L863.6,410.4L862.1,410.9L860.9,410.9L856.3,411.7L850.3,411L843,409.9L834.7,408.8L832.3,405.2L829.9,406.2L831.1,404.6L831.6,400.2L832.1,396.9L832.8,393.9L841.9,383.1L844.7,380.1L846.9,378.3L848.3,376L848.5,375.4L848.7,373L850.8,373.4L859.5,375.4L864.1,377.5L866.7,377.1L866.9,380.2L867.9,382.6L871.1,388.3L871.8,389.2L873.4,391.2L878,395.6Z","bb":[829.9,373,878,411.7],"pin":[853.4,394.5]});
+MAP.apbb=[494.3,275.4,1119.2,983.5];

diff --git a/index.html b/index.html
@@ -474,7 +474,7 @@ $('modal').onclick=e=>{ if(e.target.id==='modal') $('modal').classList.remove('o
 function toast(t){ const e=$('toast'); e.textContent=t; e.classList.add('on'); clearTimeout(e._t); e._t=setTimeout(()=>e.classList.remove('on'),1800); }
 
 const HOWTO=`<h2>Come si gioca</h2>
-<p>Ogni giorno Lentà ha una nuova <b>spedizione</b>: cinque domande, uguali per tutti. Per ognuna punta <b>un comune</b> del Piceno, del Fermano o della Val Vibrata (60 in tutto: 33 della provincia di Ascoli, 14 del Fermano, 13 del Teramano) che risponde alla domanda e conferma con <b>Pianta la bandierina</b>.</p>
+<p>Ogni giorno Lentà ha una nuova <b>spedizione</b>: cinque domande, uguali per tutti. Per ognuna punta <b>un comune</b> del Piceno, del Fermano o della Val Vibrata (86 in tutto: 33 della provincia di Ascoli, tutti i 40 della provincia di Fermo, 13 del Teramano) che risponde alla domanda e conferma con <b>Pianta la bandierina</b>.</p>
 <p>Quasi sempre le risposte giuste sono tante. Quelle ovvie ti portano poco lontano, quelle a cui pensano in pochi ti portano molto più in là:</p>
 <div class="tierlist">${TIERS.map(t=>`<span class="stamp" style="color:${t.hex};font-size:13px;min-width:0">${t.n}</span><span>+${t.km} km</span>`).join('')}<span class="stamp" style="color:${MISS.hex};font-size:13px;min-width:0">${MISS.n}</span><span>0 km — risposta sbagliata</span></div>
 <p>Al massimo fai 500 km. Parti da Piazza del Popolo e dalla chiesa di San Francesco, attraversi il Tronto e sali tra colline e monti fino al Lago di Pilato. L'arrivo è sui ghiacci del Vettore.</p>

diff --git a/CLAUDE.md b/CLAUDE.md
@@ -14,7 +14,7 @@ Le regole generali di lavoro sono in `C:\Users\pisel\.claude\CLAUDE.md`. Questo 
 - Il browser legge il foglio direttamente, come CSV dall'indirizzo gviz. Vedi "Foglio Google".
 - L'utente assegna a mano la fascia di ogni comune nel foglio. Nessuna regola automatica.
 - Le domande usano comuni di tre province: Ascoli Piceno (AP), Fermo (FM), Teramo (TE).
-- La mappa non include tutta la provincia di Fermo. Include solo i 14 comuni FM elencati sotto.
+- La mappa include tutti i 40 comuni della provincia di Fermo.
 - I confini dei comuni FM vengono da openpolis `geojson-italy`, con la stessa proiezione di `dati/mappa.js`.
 - La banca interna di 33 domande resta. Vale per i giorni che il foglio non contiene e per la modalità illimitata.
 - Lingua dell'interfaccia: italiano. I nomi delle fasce sono in dialetto ascolano.
@@ -25,7 +25,7 @@ Le regole generali di lavoro sono in `C:\Users\pisel\.claude\CLAUDE.md`. Questo 
 - `font.css`: i font (Courier Prime, Special Elite, Bowlby One SC) in base64.
 - `config.js`: `FOGLIO_URL`, l'indirizzo del foglio. Nel repo punta a `esempi/foglio-esempio.csv`.
 - `dati/mappa.js`: `const MAP` con i 46 comuni AP/TE e lo sfondo.
-- `dati/comuni-extra.js`: aggiunge a `MAP.ap` i 14 comuni FM e ricalcola `MAP.apbb`. È generato: non modificarlo a mano.
+- `dati/comuni-extra.js`: aggiunge a `MAP.ap` i 40 comuni FM e ricalcola `MAP.apbb`. È generato: non modificarlo a mano.
 - `dati/banca.js`: `const QS` con i dati dei comuni e la banca interna di domande.
 - `strumenti/aggiungi-comuni.mjs`: genera `dati/comuni-extra.js`.
 - `anteprima.png`: immagine 1200x630 dell'anteprima del link nei messaggi. La genera `strumenti/anteprima.html` (comando nel file).
@@ -127,8 +127,8 @@ Una spedizione ha 5 domande. Ogni domanda ha:
 ## Regola dei 46 comuni
 
 - Le 33 domande della banca interna valgono solo per i 46 comuni di `QS.comuni` (33 AP, 13 TE).
-- Con una domanda della banca i 14 comuni FM restano disegnati ma sono spenti e non selezionabili.
-- Con una domanda del foglio tutti i 60 comuni sono selezionabili.
+- Con una domanda della banca i 40 comuni FM restano disegnati ma sono spenti e non selezionabili.
+- Con una domanda del foglio tutti gli 86 comuni sono selezionabili.
 - La regola vale solo per la mappa della partita. Home, campo e "Impara i comuni" mostrano tutti i comuni normali.
 - In "Impara i comuni" un comune senza dati in `QS.comuni` mostra solo il nome.
 
@@ -159,7 +159,7 @@ Una spedizione ha 5 domande. Ogni domanda ha:
 
 ## Dati
 
-- `MAP`: `W`, `H`, `ap` (60 comuni: `id`, `nome`, `d`, `bb`, `pin`), `bg` (373 tracciati di sfondo), `sea`, `apbb`.
+- `MAP`: `W`, `H`, `ap` (86 comuni: `id`, `nome`, `d`, `bb`, `pin`), `bg` (373 tracciati di sfondo), `sea`, `apbb`.
 - `QS.comuni`: per codice ISTAT, `nome`, `pop`, `km2`, `alt`. Contiene solo i 46 comuni AP/TE.
 - `QS.domande`: 33 domande. Ogni domanda ha `id`, `q` (testo), `note`, `a`.
 - `a` è una mappa codice ISTAT → `{t, e}`. `e` è la spiegazione mostrata dopo la risposta.
@@ -179,8 +179,8 @@ Tutte le chiavi hanno il prefisso `lenta:`.
 ## Vincoli da rispettare
 
 - I tracciati `MAP.bg` hanno solo la forma (`d`). Non hanno nome né codice.
-- I 14 comuni FM sulla mappa sono: Fermo, Pedaso, Porto San Giorgio, Monte San Pietrangeli, Magliano di Tenna, Montegranaro, Montegiorgio, Sant'Elpidio a Mare, Amandola, Montelparo, Santa Vittoria in Matenano, Smerillo, Montefalcone Appennino, Montefortino.
-- La mappa ha 60 comuni giocabili: 33 AP, 13 TE, 14 FM.
+- I comuni FM sulla mappa sono tutti i 40 della provincia di Fermo, elencati in `COMUNI` in `strumenti/aggiungi-comuni.mjs`.
+- La mappa ha 86 comuni giocabili: 33 AP, 13 TE, 40 FM.
 - I risultati salvati contengono gli id delle domande. L'archivio riapre un giorno del foglio solo se il foglio contiene ancora quel giorno.
 - Il souvenir "Lupo di mare" legge `QBY.mare`. Si rompe se la domanda con id `mare` sparisce dalla banca.
 - Il testo "Come si gioca" (`HOWTO`) contiene numeri e fonti scritti a mano. Aggiornalo quando cambiano i dati.
@@ -201,5 +201,5 @@ Tutte le chiavi hanno il prefisso `lenta:`.
 Chiedi all'utente prima di implementare la parte collegata. Non scegliere una risposta plausibile.
 
 1. Giorno calcolato con l'orologio del dispositivo o con l'ora italiana.
-2. Dati di "Impara i comuni" (popolazione, superficie, altitudine) per i 14 comuni FM.
+2. Dati di "Impara i comuni" (popolazione, superficie, altitudine) per i 40 comuni FM.
 3. Etichette del percorso illeggibili su schermo stretto.
